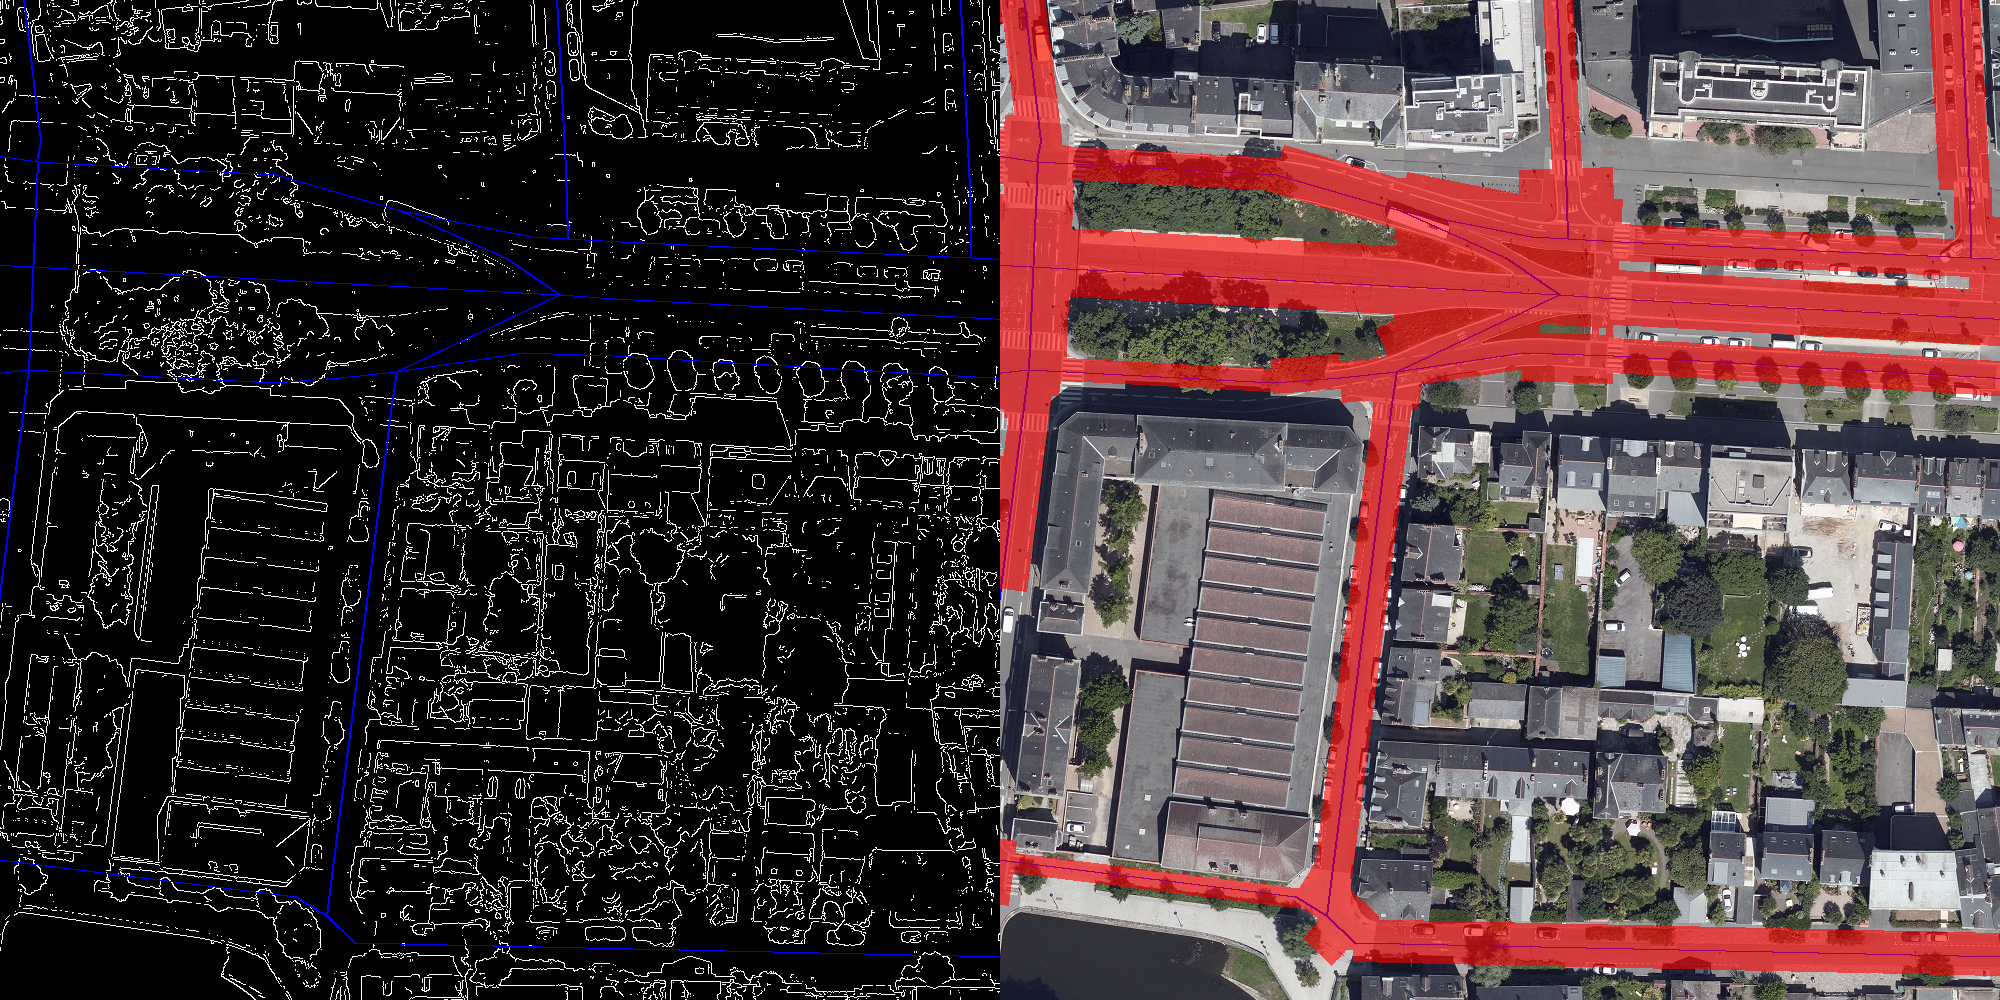
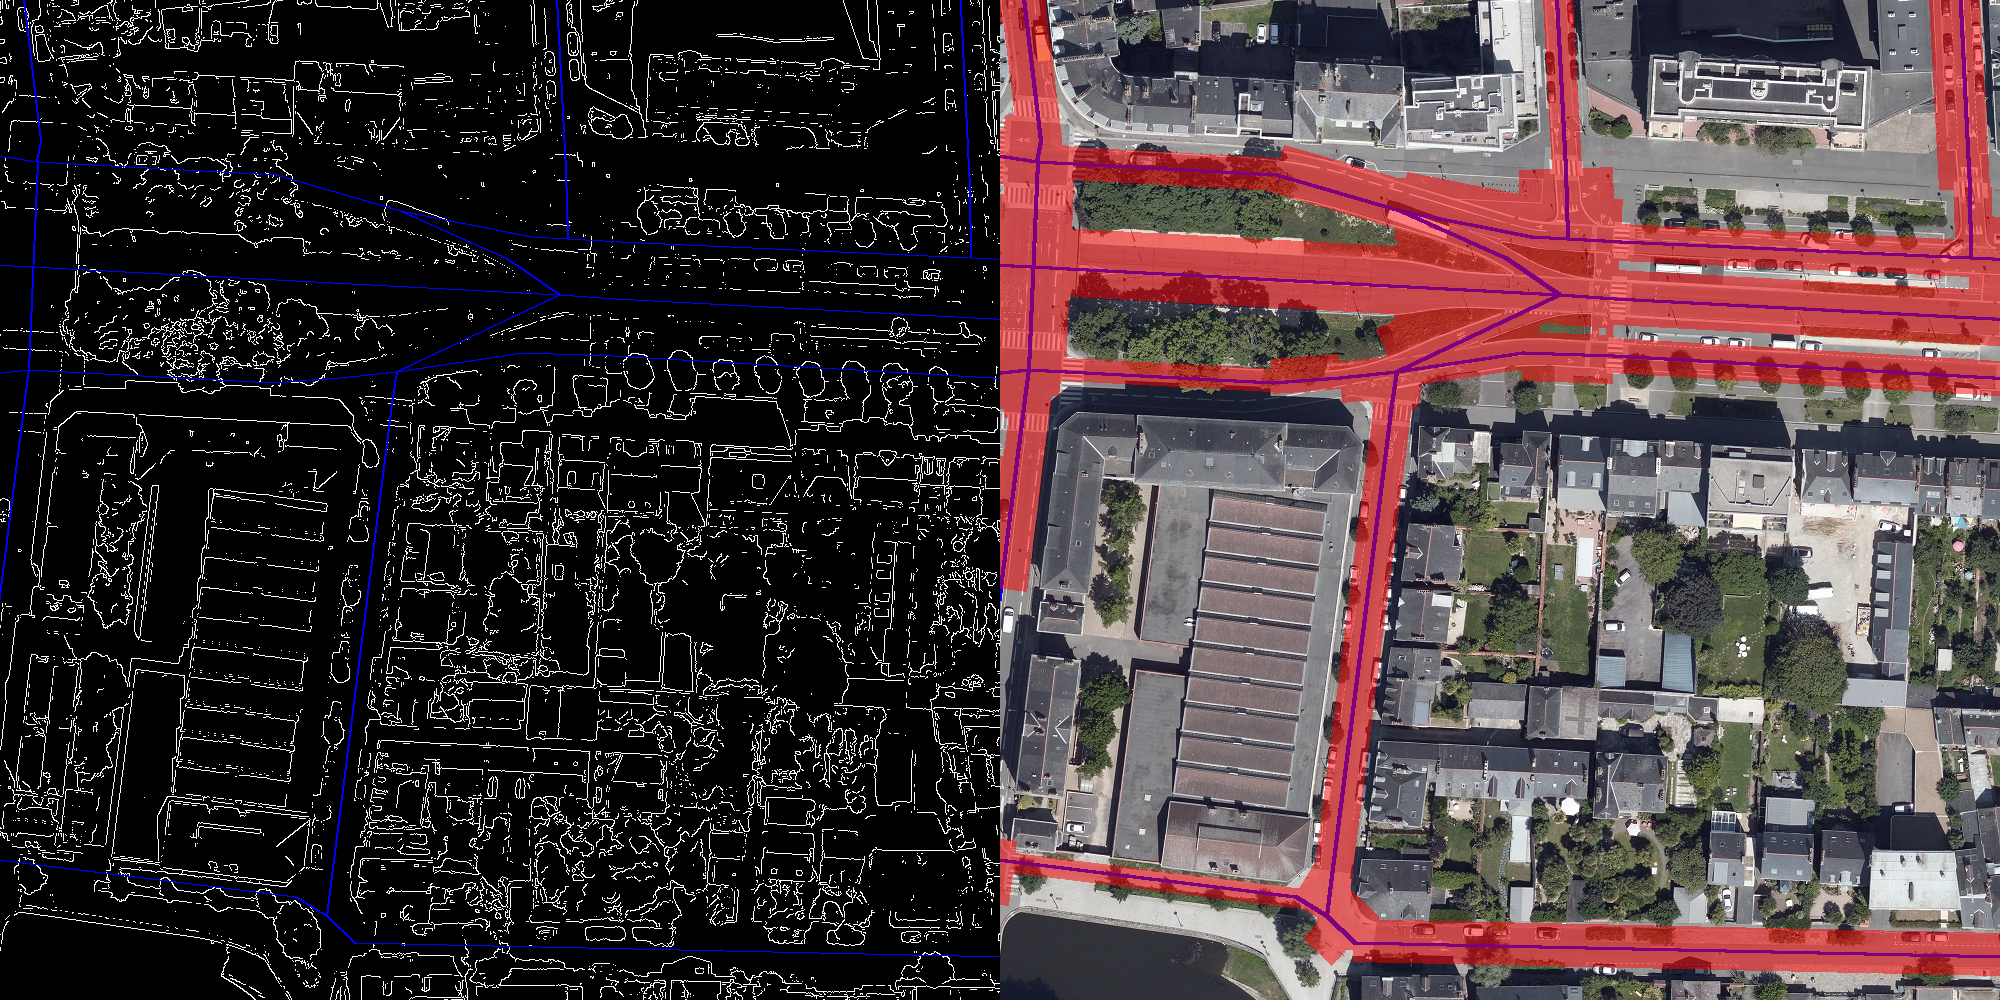
Ajout readme

diff --git a/Methodes_Algorithmiques/perpendicularMethod/main.py b/Methodes_Algorithmiques/perpendicularMethod/main.py
@@ -65,7 +65,6 @@ for (central_axis_path, road_path) in zip(axes_paths, road_paths):
         for line in route:
 
             projected_line = utils.project_on_image(line, pic_min_x, pic_min_y, pic_max_x, pic_max_y, road.shape[1], road.shape[0]) #vraiment road.shape?
-            print(projected_line)
             for i in range(len(projected_line) - 1):
                 # Compute normal vector
                 vec = np.array(projected_line[i]) - np.array(projected_line[i + 1])
@@ -154,9 +153,11 @@ for (central_axis_path, road_path) in zip(axes_paths, road_paths):
 
     # Overlay the segmentation on the road image
     result = road.copy()
-    result[central_axis >= 1] = np.array([255, 0, 0])
-    result[segmentation_mask >= 1] = (0.6 * np.array([0, 0, 255]) + 0.4 * result[segmentation_mask >= 1]).astype(np.uint8)
-    
+    central_axis_dilate = cv2.dilate(central_axis, np.ones((3, 3)))
+    result[central_axis_dilate >= 1] = np.array([255, 0, 0])
+    result[segmentation_mask >= 1] = (0.5 * np.array([0, 0, 255]) + 0.5 * result[segmentation_mask >= 1]).astype(np.uint8)
+    cv2.imwrite(f"Methodes_Algorithmiques/perpendicularMethod//results//images//overlay_{filename}.png", result)
+
     edges_with_axis = np.dstack((edges, edges, edges))
     edges_with_axis[central_axis >= 1] = (255, 0, 0)
     stacked = np.hstack((edges_with_axis, result))

diff --git a/README.md b/README.md
@@ -1,0 +1,93 @@
+# Projet Industriel
+
+## Objectifs
+
+Faire un état de l’art des méthodes pouvant permettre d’estimer la largeur des routes et trottoirs à partir de vues aériennes dans la perspective :
+
+- D’identifier les zones problématiques pour la circulation (piétons, cyclistes, automobilistes).
+- D’aider les municipalités à optimiser l’espace public.
+
+## Travail réalisé
+
+1. Extraction automatisé d’images aériennes de Rennes et des axes centraux correspondants.
+2. Segmentation des images : deux méthodes développées (algorithmique et IA).
+3. Estimation de la largeur de chaque route en mètres à partir de la segmentation.
+
+### Méthode algorithmique
+
+- Calcul d'une normale associée à chaque segment de route.
+- Extraction de contours dans l’image via un filtre de Canny.
+- Estimation de la largeur moyenne en suivant la normale en chaque point du segment, jusqu'à atteindre un contour.
+
+#### Avantages
+
+Largeurs uniformes. Toutes les routes sont segmentés.
+
+#### Inconvénients
+
+Non-robuste au bruit (marquage au sol, végétation, ombres, etc.).
+
+### Méthodes par IA
+
+Test de plusieurs modèles de segmentation sémantique :
+- Unet [1] : Nombreuses routes non segmentées, largeurs de routes non uniformes.
+- DeepLabv3 [2] : Largeurs plus uniformes, mais masque de sortie 64x64 insuffisant pour une segmentation précise.
+
+[1] Ronneberger, Olaf, et al. "U-Net: Convolutional networks for biomedical image segmentation." (2015)
+[2] Chen, Liang-Chieh, et al. “Rethinking atrous convolution for semantic image segmentation.” (2017)
+
+#### Avantage
+
+Plus robuste au bruit que la méthode algorithmique.
+
+#### Inconvénients
+
+Beaucoup de routes non segmentées.
+
+## Résultats : segmentations
+
+### Métriques
+
+|             | Algo  | Unet | DeepLabV3 |
+|-------------|-------|------|-----------|
+| Précision   | 89%   |  ?   |    ?      |
+| Rappel      | 75%   |  ?   |    ?      |
+| F1 score    | 81%   |  ?   |    ?      |
+
+### Images
+
+
+## Conclusion
+
+**Méthode algorithmique :**
+- Donne de bons résultats pour la segmentation des routes.
+- Plus efficace que les approches basées sur l'IA.
+
+**Trottoirs :**
+- Très peu contrastés par rapport à la route dans les images aériennes.
+- Difficile à segmenter et à estimer leur largeur de manière indépendante.
+
+**Perspectives :**
+- Test des méthodes sur d’autres villes que Rennes.
+
+## Arborescence des fichiers
+```
+├─ ExtractionOrthophotographies,
+│  ├─ Gdal,
+│  └─ mask_creator
+│
+├─ ImagesRennes
+│  
+├─ Methodes_Algorithmiques
+│  ├─ metricsComputing
+│  │  └─ toComputeMetrics
+│  │     ├─ mask
+│  │     └─ truth
+│  │
+│  ├─ perpendicularMethod,
+│  │  ├─ Data
+│  │  └─ results
+│
+└─ Methodes_IA,
+   └─ Deeplabv3+_RoadSegmentation,
+```

diff --git a/Methodes_Algorithmiques/perpendicularMethod/README.md b/Methodes_Algorithmiques/perpendicularMethod/README.md
@@ -38,9 +38,9 @@ Fichier `draw_normals.py` : permet de visualiser les normales de chaque segment
 
 ### Métriques
 
-- Average **Precision** : `0.9155`
-- Average **Recall** : `0.7374`
-- Average **F1 Score** : `0.8144`
+- Average **Precision** : `89%`
+- Average **Recall** : `75%`
+- Average **F1 Score** : `81%`
 
 ### Image de normales
 
